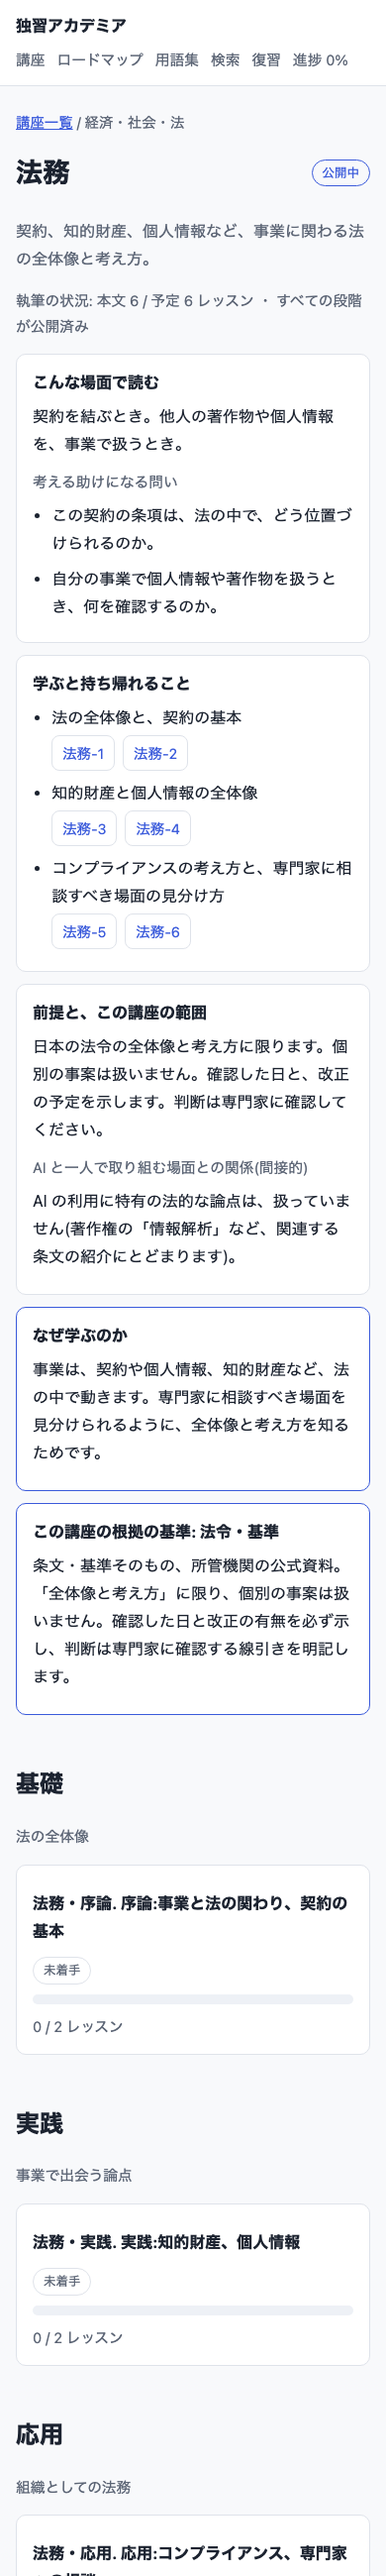
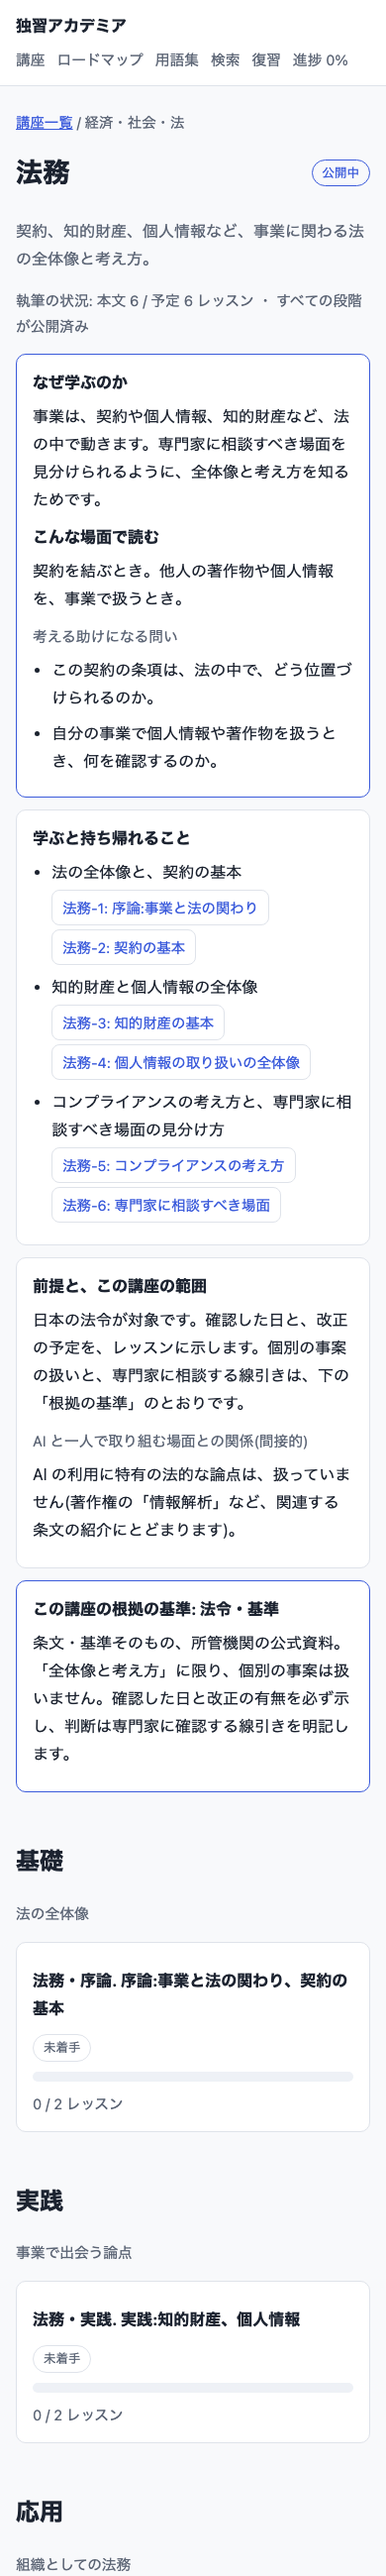
全講座の入口: Codex のレビューの指摘 1〜6 に対応する
PM の出典の確認範囲の限定、一覧の前置きと目次の重複の整理、リンクに題名を表示、労務の断定を弱める、
カードの時間のラベル、順序の検査を直す。出典・確認日は更新しない。

diff --git a/src/data/course-entry.ts b/src/data/course-entry.ts
@@ -23,6 +23,8 @@ export type CourseEntry = {
 }
 
 export const audience = {
+  /** 一覧の枠に出す、短い案内 */
+  short: '一人で起業を考える人、複数の役割を担う人、新任 PM へ。自分の困りごとに近い講座から選べます。',
   reader:
     'AI とともに事業やプロダクトをつくり、顧客・事業・開発について、自分で判断する必要がある人。一人で起業を考える人、小さな事業で複数の役割を担う人、新任のプロダクトマネージャー(PM)として分野をまたいで学び直す人を想定しています。',
   promise:
@@ -140,7 +142,7 @@ export const entries: Record<string, CourseEntry> = {
       { text: '依頼を問題に言い直し、顧客を調べ、仮定を試す方法', lessons: ['pm-2', 'pm-3'] },
       { text: '優先順位、指標、戦略、関係者との合意の考え方', lessons: ['pm-4', 'pm-5', 'pm-6', 'pm-7'] },
     ],
-    scope: '前提は、根拠の読み方・統計・経営戦略・UX(先に学ぶとよい。必須ではありません)。教科書がなく、実務家の資料が根拠です。優先順位づけなど、実務家の意見が分かれる分野は、分かれていると書いています。',
+    scope: '前提は、根拠の読み方・統計・経営戦略・UX(先に学ぶとよい。必須ではありません)。この講座では、教科書の本文を確認していません。実務家の記事やガイドを中心に、指標設計では学会論文も扱います。優先順位づけなど、実務家の意見が分かれる点は、違いと限界を示します。',
     solo: { kind: 'direct', text: '一人で PM の役割を担う人が、確かめる順序と、決める根拠を持つための講座です。AI の使い方そのものは扱いません。' },
   },
   strategy: {
@@ -236,7 +238,7 @@ export const entries: Record<string, CourseEntry> = {
       { text: '知的財産と個人情報の全体像', lessons: ['lg-3', 'lg-4'] },
       { text: 'コンプライアンスの考え方と、専門家に相談すべき場面の見分け方', lessons: ['lg-5', 'lg-6'] },
     ],
-    scope: '日本の法令の全体像と考え方に限ります。個別の事案は扱いません。確認した日と、改正の予定を示します。判断は専門家に確認してください。',
+    scope: '日本の法令が対象です。確認した日と、改正の予定を、レッスンに示します。個別の事案の扱いと、専門家に相談する線引きは、下の「根拠の基準」のとおりです。',
     solo: { kind: 'indirect', text: 'AI の利用に特有の法的な論点は、扱っていません(著作権の「情報解析」など、関連する条文の紹介にとどまります)。' },
   },
   labor: {
@@ -248,8 +250,8 @@ export const entries: Record<string, CourseEntry> = {
       { text: '採用から退職までの流れと、就業規則の役割', lessons: ['lb-3', 'lb-4'] },
       { text: 'ハラスメント防止の考え方と、専門家に相談すべき場面', lessons: ['lb-5', 'lb-6'] },
     ],
-    scope: '日本の法令の全体像と考え方に限ります。個別の事案は扱いません。就労者が「労働者」にあたるか(雇用か、業務委託か)は、専門家に確認する点として挙げています(lb-1)。',
-    solo: { kind: 'indirect', text: '一人で事業をする間は、直接は使いません。人を雇う可能性が出たときに関わります。' },
+    scope: '日本の法令が対象です。就労者が「労働者」にあたるか(雇用か、業務委託か)は、専門家に確認する点として挙げています(lb-1)。個別の事案の扱いと、線引きは、下の「根拠の基準」のとおりです。',
+    solo: { kind: 'indirect', text: '自分だけで作業する段階では、優先度は低めです。人を雇うことや、外部の人への仕事の依頼を考え、就労者が「労働者」にあたるかなどを専門家に相談する際に関わります。業務委託全般の手続は扱いません。' },
   },
   accounting: {
     decision: '売上と手元の資金を混同せず、お金の流れを読み、計画の現実味を判断する。',
@@ -260,7 +262,7 @@ export const entries: Record<string, CourseEntry> = {
       { text: 'キャッシュフローの見方と、損益分岐点', lessons: ['ac-3', 'ac-4'] },
       { text: '予算と実績の差の読み方、投資の評価', lessons: ['ac-5', 'ac-6'] },
     ],
-    scope: '日本の会社法・規則の全体像と考え方、および教科書の説明に限ります。個別の会計処理や税務は扱いません。確認した日を示します。専門家に確認してください。',
+    scope: '日本の会社法・規則と、教科書の説明が対象です。個別の会計処理や税務は扱いません。確認した日を、レッスンに示します。線引きは、下の「根拠の基準」のとおりです。',
     solo: { kind: 'direct', text: '一人で事業をするとき、売上と資金を混同しないための土台です。記帳や申告の手順は扱いません。' },
   },
   audit: {
@@ -272,7 +274,7 @@ export const entries: Record<string, CourseEntry> = {
       { text: 'リスクと統制の対応、証跡の残し方', lessons: ['au-3', 'au-4'] },
       { text: 'IT と統制、不正の防止の考え方', lessons: ['au-5', 'au-6'] },
     ],
-    scope: '前提は、会計・経理の講座(先に学ぶとよい)。金融商品取引法と会社法の制度を背景にしていて、小さな事業に、そのまま当てはまるとは限りません(このサービスの注意)。個別の判断は、専門家に確認してください。',
+    scope: '前提は、会計・経理の講座(先に学ぶとよい)。金融商品取引法と会社法の制度を背景にしていて、小さな事業に、そのまま当てはまるとは限りません(このサービスの注意)。個別の事案の扱いと、線引きは、下の「根拠の基準」のとおりです。',
     solo: { kind: 'indirect', text: '一人で事業をする間は、直接は使いにくい講座です。人やお金が増え、役割が分かれるときに関わります(このサービスの整理)。' },
   },
 }

diff --git a/src/pages/CatalogPage.tsx b/src/pages/CatalogPage.tsx
@@ -21,13 +21,10 @@ export default function CatalogPage() {
   return (
     <>
       <h1>講座一覧</h1>
-      <p className="lead">
-        顧客・事業・数字・開発について、自分で判断するための知識を、学問と一次情報に基づいて学べる講座集です。全講座を学ぶ前提ではなく、自分の困りごとに近い講座から選べます。
-        各講座は、基礎 → 実践 → 応用の段階で並んでいます。どの記述にも、根拠の種類と確認の程度が見えるようにしています。講座の関係と、この構成の理由は、<Link to="/map">全体の地図</Link>で見られます。
-      </p>
       <AudienceNote />
-      <p className="muted">
-        1レッスンの学習時間の目安は、中央値で{formatMinutes(len.median)}(最短{formatMinutes(len.min)}、最長{formatMinutes(len.max)})です。本文の文字数などから見積もった目安で、実測ではありません。
+      <p className="lead">
+        各講座は、基礎 → 実践 → 応用の順に並び、どの記述にも、根拠の種類と確認の程度が見えます。講座の関係と、この構成の理由は、<Link to="/map">全体の地図</Link>で見られます。
+        1レッスンの学習時間の目安は、中央値で{formatMinutes(len.median)}(最短{formatMinutes(len.min)}、最長{formatMinutes(len.max)})です。本文の文字数などからの見積もりで、実測ではありません。
       </p>
       {notAllOpen && (
         <p className="notice" role="note">
@@ -38,9 +35,10 @@ export default function CatalogPage() {
         <section className="card" aria-label="続きから学ぶ">
           <div className="row">
             <Link className="button" to={`/lesson/${nextLesson.id}`} state={{ resume: true }}>
-              {done === 0 && !position ? '学習を始める' : '続きから学ぶ'}:{nextLesson.title}
+              {done === 0 && !position ? '学習を始める(例)' : '続きから学ぶ'}:{nextLesson.title}
             </Link>
             <span className="muted">
+              {done === 0 && !position && '全講座を学ぶ前提ではありません。下の講座から選べます。 ・ '}
               {formatMinutes(lessonMinutes(nextLesson.id))}
               {position && ` ・ 前回は「${position.section}」まで読みました`}
             </span>
@@ -99,7 +97,7 @@ export default function CatalogPage() {
                   {available ? (
                     <>
                       <ProgressBar value={pct} label={`${c.title}の進捗`} />
-                      <span className="muted">{done} / {total} レッスン ・ {formatMinutes(courseMinutes(c), true)}{plannedCount(c) > 0 && ` ・ 準備中(目次の案) ${plannedCount(c)} 件`}</span>
+                      <span className="muted">{done} / {total} レッスン ・ 講座全体の目安: {formatMinutes(courseMinutes(c), true)}{plannedCount(c) > 0 && ` ・ 準備中(目次の案) ${plannedCount(c)} 件`}</span>
                     </>
                   ) : (
                     <span className="muted">本文 {writtenCount(c)} ・ 目次の案 {plannedCount(c)} 件</span>

diff --git a/src/ui/CourseEntryCards.tsx b/src/ui/CourseEntryCards.tsx
@@ -2,19 +2,23 @@ import { Link } from 'react-router-dom'
 import { entries } from '../data/course-entry'
 import { findLesson } from '../data/curriculum'
 
-/** 講座の目次の冒頭: こんな場面で読む / 学ぶと持ち帰れること / 前提と範囲。目次に進む前に、役立つ場面を把握できるようにする。 */
-export default function CourseEntryCards({ courseId }: { courseId: string }) {
+/** 講座の目次の冒頭: なぜ学ぶのか・こんな場面で読む / 学ぶと持ち帰れること / 前提と範囲。目次に進む前に、役立つ場面を把握できるようにする。 */
+export default function CourseEntryCards({ courseId, why }: { courseId: string; why: string }) {
   const e = entries[courseId]
   if (!e) return null
   return (
     <>
-      <section className="card entry-card" aria-label="こんな場面で読む">
-        <strong>こんな場面で読む</strong>
-        <p>{e.when}</p>
-        <span className="muted">考える助けになる問い</span>
-        <ul className="entry-list">
-          {e.questions.map((q) => <li key={q}>{q}</li>)}
-        </ul>
+      <section className="card why-card entry-card" aria-label="なぜ学ぶのか">
+        <strong>なぜ学ぶのか</strong>
+        <p>{why}</p>
+        <div role="group" aria-label="こんな場面で読む">
+          <strong>こんな場面で読む</strong>
+          <p>{e.when}</p>
+          <span className="muted">考える助けになる問い</span>
+          <ul className="entry-list">
+            {e.questions.map((q) => <li key={q}>{q}</li>)}
+          </ul>
+        </div>
       </section>
 
       <section className="card entry-card" aria-label="学ぶと持ち帰れること">
@@ -23,10 +27,10 @@ export default function CourseEntryCards({ courseId }: { courseId: string }) {
           {e.gains.map((g) => (
             <li key={g.text}>
               {g.text}
-              <span className="plan-chips">
+              <span className="entry-lessons">
                 {g.lessons.map((id) => {
                   const l = findLesson(id)
-                  return l ? <Link key={id} className="chip" to={`/lesson/${id}`} title={l.title}>{l.label ?? id}</Link> : null
+                  return l ? <Link key={id} className="chip entry-lesson" to={`/lesson/${id}`}>{l.label ?? id}: {l.title}</Link> : null
                 })}
               </span>
             </li>

diff --git a/e2e/audience.spec.ts b/e2e/audience.spec.ts
@@ -62,8 +62,10 @@ test('講座一覧: 読者と約束、各カードの「どんな判断に役立
   await page.goto(go('/catalog'))
   const note = page.getByLabel('想定する読者と約束')
   await expect(note).toContainText(audience.promise)
+  await expect(note).toContainText(audience.short)
   await note.locator('summary').click()
   await expect(note).toContainText('約束しません')
+  await expect(note).toContainText(audience.reader)
   await expect(page.locator('.course-card')).toHaveCount(courses.length)
   for (const c of courses) await expect(page.locator('.course-card', { hasText: c.title }).first()).toContainText(entries[c.id].decision)
 })
@@ -75,14 +77,16 @@ test('講座の目次: 場面・持ち帰れること・前提が、目次より
   await expect(page.getByLabel('こんな場面で読む')).toBeVisible()
   await expect(page.getByLabel('学ぶと持ち帰れること')).toBeVisible()
   await expect(page.getByLabel('前提と範囲')).toContainText('AI と一人で取り組む場面との関係')
-  // 入口のカードは、基礎・実践・応用の見出しより前にある
+  // 入口のカードは、3 枚とも、基礎・実践・応用の見出しより前にある
   const before = await page.evaluate(() => {
-    const card = document.querySelector('.entry-card')!
     const tier = document.querySelector('.tier')!
-    return !!(card.compareDocumentPosition(tier) & Node.DOCUMENT_POSITION_FOLLOWING)
+    return [...document.querySelectorAll('.entry-card')].map((card) => !!(card.compareDocumentPosition(tier) & Node.DOCUMENT_POSITION_FOLLOWING))
   })
-  expect(before).toBe(true)
-  await page.getByLabel('学ぶと持ち帰れること').getByRole('link', { name: 'PM-1' }).click()
+  expect(before).toEqual([true, true, true])
+  // リンクには、番号だけでなく、レッスンの題名が見える
+  const link = page.getByLabel('学ぶと持ち帰れること').getByRole('link', { name: /PM-1/ })
+  await expect(link).toContainText('PM の仕事の全体像')
+  await link.click()
   await expect(page.locator('article h1')).toContainText('PM の仕事の全体像')
 })
 

diff --git a/src/pages/CoursePage.tsx b/src/pages/CoursePage.tsx
@@ -33,7 +33,7 @@ export default function CoursePage() {
         {status === 'open' && ' ・ すべての段階が公開済み'}
       </p>
 
-      <CourseEntryCards courseId={course.id} />
+      <CourseEntryCards courseId={course.id} why={course.why} />
 
       {['llm', 'agents', 'aidev'].includes(course.id) && (
         <Link to="/llm" className="card stage-card">
@@ -48,11 +48,6 @@ export default function CoursePage() {
           <span className="muted">講座のつながりと、この構成の理由、根拠の表示の読み方を、1枚で見ます。</span>
         </Link>
       )}
-
-      <section className="card why-card" aria-label="なぜ学ぶのか">
-        <strong>なぜ学ぶのか</strong>
-        <p>{course.why}</p>
-      </section>
 
       <section className="card why-card">
         <strong>この講座の根拠の基準: {ev.label}</strong>

diff --git a/src/styles.css b/src/styles.css
@@ -416,7 +416,9 @@ a.concept-chip:hover { border-color: var(--accent); }
 .audience-note summary { cursor: pointer; color: var(--muted); }
 .entry-card p { margin: 6px 0 10px; }
 .entry-list { margin: 6px 0 8px; padding-left: 1.2em; display: grid; gap: 8px; }
-.entry-list .plan-chips { margin-top: 4px; }
+.entry-lessons { display: flex; flex-direction: column; align-items: flex-start; gap: 4px; margin-top: 4px; }
+.entry-lesson { max-width: 100%; }
+.entry-card [role=group] { margin-top: 10px; }
 .course-list { display: grid; grid-template-columns: repeat(auto-fill, minmax(240px, 1fr)); gap: 12px; margin-bottom: 8px; }
 .course-card { display: flex; flex-direction: column; gap: 8px; text-decoration: none; color: inherit; }
 .evidence-tag { font-size: 0.82rem; color: var(--muted); }

diff --git a/src/ui/AudienceNote.tsx b/src/ui/AudienceNote.tsx
@@ -5,9 +5,10 @@ export default function AudienceNote() {
   return (
     <section className="card audience-note" aria-label="想定する読者と約束">
       <strong>{audience.promise}</strong>
-      <p>{audience.reader}</p>
+      <p>{audience.short}</p>
       <details>
-        <summary>この設定について、約束しないこと</summary>
+        <summary>対象の読者と、約束しないこと</summary>
+        <p>{audience.reader}</p>
         <p>{audience.background}</p>
         <p>{audience.notPromised}</p>
       </details>

diff --git a/src/pages/MapPage.tsx b/src/pages/MapPage.tsx
@@ -17,7 +17,6 @@ export default function MapPage() {
       <p className="lead">
         {courses.length} の講座が、どうつながり、なぜこの並びになっているかを、1枚で見ます。
         {allOpen ? '全講座に本文があります。' : `いま本文があるのは ${open} 講座で、残りは目次の案です。`}
-        全講座を学ぶ前提ではなく、自分の困りごとに近い講座から選べます。
       </p>
       <AudienceNote />
       <p className="notice" role="note">

diff --git a/docs/pilot/course-audience.md b/docs/pilot/course-audience.md
@@ -26,7 +26,7 @@
 | **AI を使った開発**<br>AI にどこまで任せ、どこを人が確かめるかを決める。 | AI にコードを書かせて、一人で、またはチームで、プロダクトをつくるとき。 | AI が書いたコードを、どう読み、何を確かめるのか。<br>課題を AI に渡すとき、仕様や権限をどう渡すのか。 | AI を使った開発の水準の考え方と、任せる水準の選び方(14-1・14-3)<br>生成されたコードの確かめ方と、理解を保つ学び方(15-2・15-3)<br>仕様・権限・CI などで、AI に任せる範囲を設計する観点(16-2・16-3・17-2・18-1) | 前提は、AI エージェント開発の講座(先に学ぶとよい)。AI を使った開発について、研究が示すことと、その限界は、14-2 で扱います。 | 直接: AI とつくることを扱う、中心の講座です。任せる範囲と、確かめる範囲を、自分で決める観点を扱います。 |
 | **ソフトウェアエンジニアリング**<br>開発者の見積もりや、AI が書いたコードを、変更・テスト・保守の観点で受け止める。 | 開発者と話すとき。AI が書いたコードを、自分で確かめる必要があるとき。 | 「動く」と「保守できる」は、何が違うのか。<br>テストや技術的負債の話に、どんな問いを返せるのか。 | ソフトウェアは書いたあとも続くこと、バージョン管理とレビューの役割(SWE-1・SWE-2)<br>テストの使い分けと、技術的負債の考え方(SWE-3・SWE-4)<br>システムの分割と、開発の指標の読み方(SWE-5・SWE-6) | 前提はありません。プログラミングの入門ではなく、開発の考え方と、会話に加わるための問いを扱います。 | 間接: AI が書いたコードのレビューは、AI を使った開発の講座(15-2、17-2)で扱い、sw-2 から案内しています。この講座は、その土台の考え方です。 |
 | **セキュリティ**<br>何を、誰から守るかを決め、設計やリリース前の確認に、問いを持ち込む。 | ログインや個人情報を扱う機能を、作るとき、出すとき。 | この機能で、何を、誰から守るのか。<br>リリースの前に、どんな問いで確かめるのか。 | 守るものと攻撃者の考え方、認証と認可の違い(セキュリティ-1・セキュリティ-2)<br>よくある脆弱性と、秘密情報の扱い(セキュリティ-3・セキュリティ-4)<br>脅威モデリングと、事故対応の位置づけ(セキュリティ-5・セキュリティ-6) | 前提は、ソフトウェアエンジニアリングの講座(先に学ぶとよい)。個別のシステムの安全性の判断は扱いません。専門家に確認してください。 | 直接: AI とつくるときも、守るものと脅威の考え方は同じです。AI を組み込む機能に特有の安全の話は、AI エージェント開発の 12-2 で扱います。 |
-| **プロダクトマネジメント**<br>何を作るか、何から確かめるかを、顧客・データ・事業をつなげて判断する。 | 新任の PM として着任したとき。一人で、製品の方向を決めるとき。 | 作れるものが増えたとき(AI の助けで増えることもある)、何を先に作り、何を確かめるのか。<br>大口顧客の要望を、そのまま作ってよいのか。まず何を確かめるのか。 | PM の責任と、4 つのリスク(価値・使いやすさ・実現可能性・事業)(PM-1)<br>依頼を問題に言い直し、顧客を調べ、仮定を試す方法(PM-2・PM-3)<br>優先順位、指標、戦略、関係者との合意の考え方(PM-4・PM-5・PM-6・PM-7) | 前提は、根拠の読み方・統計・経営戦略・UX(先に学ぶとよい。必須ではありません)。教科書がなく、実務家の資料が根拠です。優先順位づけなど、実務家の意見が分かれる分野は、分かれていると書いています。 | 直接: 一人で PM の役割を担う人が、確かめる順序と、決める根拠を持つための講座です。AI の使い方そのものは扱いません。 |
+| **プロダクトマネジメント**<br>何を作るか、何から確かめるかを、顧客・データ・事業をつなげて判断する。 | 新任の PM として着任したとき。一人で、製品の方向を決めるとき。 | 作れるものが増えたとき(AI の助けで増えることもある)、何を先に作り、何を確かめるのか。<br>大口顧客の要望を、そのまま作ってよいのか。まず何を確かめるのか。 | PM の責任と、4 つのリスク(価値・使いやすさ・実現可能性・事業)(PM-1)<br>依頼を問題に言い直し、顧客を調べ、仮定を試す方法(PM-2・PM-3)<br>優先順位、指標、戦略、関係者との合意の考え方(PM-4・PM-5・PM-6・PM-7) | 前提は、根拠の読み方・統計・経営戦略・UX(先に学ぶとよい。必須ではありません)。この講座では、教科書の本文を確認していません。実務家の記事やガイドを中心に、指標設計では学会論文も扱います。優先順位づけなど、実務家の意見が分かれる点は、違いと限界を示します。 | 直接: 一人で PM の役割を担う人が、確かめる順序と、決める根拠を持つための講座です。AI の使い方そのものは扱いません。 |
 | **経営・戦略**<br>限られた時間と資金を、どの事業・顧客に集中させるかを、数字と競争から判断する。 | 新しい事業や機能に、時間と資金を使う前。 | この事業は、いくら売れば利益が出るのか。<br>競争の中で、どこに位置取りするのか。 | 収益・費用・利益の構造と、損益分岐点の計算(経営-1・経営-2)<br>競争環境と、位置取りの枠組み(経営-3・経営-4)<br>投資案の比べ方と、新規事業を仮説の検証として進める考え方(経営-5・経営-6) | 前提はありません。枠組みは、成果の証拠ではなく、考える道具として紹介します。分析の前提と限界は、各レッスンに書いています。 | 直接: 一人で事業を始める人が、数字と競争から、何に集中するかを決める土台です。 |
 | **マーケティング**<br>誰に、何を、どう届けるかを決め、施策の数字を検算して読む。 | プロダクトを誰に届けるかを決めるとき。広告や施策の効果を見るとき。 | 全員ではなく、誰を狙うのか。<br>CAC や CLV などの数字は、検算しても成り立つのか。 | マーケティングの定義と、市場の分け方・狙い方(マーケティング-1・マーケティング-2)<br>ポジショニングの考え方と、狙い方の倫理(マーケティング-3)<br>指標の計算と検算、ブランドと成長の見方(マーケティング-4・マーケティング-5・マーケティング-6) | 前提は、経営・戦略の講座(先に学ぶとよい)。教科書が根拠を示していない主張や基準は、そう書いています。広告の運用の手順は扱いません。 | 間接: AI で作ったものを、誰に届けるかを決める場面で使えます(このサービスの整理)。AI を使った施策の運用は扱いません。 |
 | **UX・ユーザーリサーチ**<br>思い込みでなく、実際の利用者の困りごとに合わせて、作るものを判断する。 | AI と立てた顧客像や仮説が、実際の利用者に合っているか、確かめたいとき。 | 利用者は、何をしようとして、何に困っているのか。<br>調査の結果を、どう次の判断につなげるのか。 | 使いやすさと有用性の区別、利用者の課題の捉え方(UX-1・UX-2)<br>インタビュー・観察と、ユーザビリティテストの進め方(UX-3・UX-4)<br>調査結果を意思決定につなげ、定性と定量を組み合わせる方法(UX-5・UX-6) | 前提は、心理学の講座(先に学ぶとよい。必須ではありません)。テストの人数など、実務家の間で議論がある点は、議論があると書いています。 | 直接: AI と立てた仮のペルソナや仮説を、実際の調査で確かめるための土台です。AI を使った調査の手順は、扱いません。 |
@@ -34,10 +34,10 @@
 | **心理学**<br>利用者や同僚の行動の背景を、思い込みでなく、研究の確かさとともに考える。 | 利用者が、なぜそう行動するのかを考えるとき。 | その心理学の主張は、実験で確かめられ、再現されているのか。<br>注意や記憶には、どんな限界と誤りがあるのか。 | 心理学の研究の方法と、相関と因果、再現性(心理学-1・心理学-2)<br>注意・記憶・動機づけのしくみ(心理学-3・心理学-4)<br>学習と習慣、集団の判断の有名な研究の、確かさ(心理学-5・心理学-6) | 前提は、根拠の読み方の講座(先に学ぶとよい)。再現や批判のある研究は、そう書いています。診断や治療は扱いません。 | 間接: 顧客を理解する土台で、一人でも使えます。AI との対話そのものは扱いません。 |
 | **行動心理学・行動経済学**<br>人の選択のくせと、行動を変える設計の効果を、数字と追試の状況で見極める。 | ナッジや選択肢の見せ方で、利用者の行動を変えようとするとき。 | ナッジやデフォルトは、どれだけ効くと言えるのか。<br>行動を変える設計は、どこから、利用者を欺く設計になるのか。 | プロスペクト理論と、バイアス研究の再現の状況(行動心理学-1・行動心理学-2)<br>デフォルト・選択過多・ナッジの効果と、論争(行動心理学-3・行動心理学-4)<br>ダークパターンと倫理、オンライン実験の落とし穴(行動心理学-5・行動心理学-6) | 前提は、心理学と統計の講座(先に学ぶとよい)。結果が割れている研究は、割れていると書いています。平均の効果を、自分の状況の予測に使わない考え方を扱います。 | 間接: プロダクトの行動設計を点検する観点です(bh-5)。AI を使った行動設計は扱いません。 |
 | **マネジメント**<br>チームの目標・評価・意思決定・組織の形を、研究が言えることと助言を分けて考える。 | 人と協力して進めるとき。仕事を任せるとき。組織を作るとき。 | 目標を立てる前に、何を確かめるのか。<br>集団で決めることには、どんな利点と落とし穴があるのか。 | 管理職の仕事の実態と、目標の立て方(マネジメント-1・マネジメント-2)<br>評価とフィードバック、集団の意思決定(マネジメント-3・マネジメント-4)<br>組織の形の選び方と、変革の進め方(マネジメント-5・マネジメント-6) | 前提はありません。教科書が根拠として示していることと、示していないことを分けています。 | 間接: 協力者や委託先が加わるときに関わります(このサービスの整理)。AI にタスクを任せるときのマネジメントは扱いません。 |
-| **法務**<br>契約・知的財産・個人情報について、何を調べ、どこで専門家に相談するかを判断する。 | 契約を結ぶとき。他人の著作物や個人情報を、事業で扱うとき。 | この契約の条項は、法の中で、どう位置づけられるのか。<br>自分の事業で個人情報や著作物を扱うとき、何を確認するのか。 | 法の全体像と、契約の基本(法務-1・法務-2)<br>知的財産と個人情報の全体像(法務-3・法務-4)<br>コンプライアンスの考え方と、専門家に相談すべき場面の見分け方(法務-5・法務-6) | 日本の法令の全体像と考え方に限ります。個別の事案は扱いません。確認した日と、改正の予定を示します。判断は専門家に確認してください。 | 間接: AI の利用に特有の法的な論点は、扱っていません(著作権の「情報解析」など、関連する条文の紹介にとどまります)。 |
-| **労務**<br>人を雇う局面で、何を確認し、どこで専門家に相談するかを判断する。 | 人を雇うとき。就業規則を作る必要が出たとき。 | 採用から退職まで、どんな制度が関わるのか。<br>どの場面で、社会保険労務士や弁護士に相談するのか。 | 雇用の基本的な仕組みと、労働時間の考え方(労務-1・労務-2)<br>採用から退職までの流れと、就業規則の役割(労務-3・労務-4)<br>ハラスメント防止の考え方と、専門家に相談すべき場面(労務-5・労務-6) | 日本の法令の全体像と考え方に限ります。個別の事案は扱いません。就労者が「労働者」にあたるか(雇用か、業務委託か)は、専門家に確認する点として挙げています(lb-1)。 | 間接: 一人で事業をする間は、直接は使いません。人を雇う可能性が出たときに関わります。 |
-| **会計・経理**<br>売上と手元の資金を混同せず、お金の流れを読み、計画の現実味を判断する。 | 決算書や資金繰りを見るとき。予算や投資を判断するとき。 | 利益が出ているのに、手元の現金が足りなくなるのは、なぜか。<br>この投資案は、回収と時間価値を考えても、成り立つのか。 | 貸借対照表と損益計算書、発生主義の考え方(会計-1・会計-2)<br>キャッシュフローの見方と、損益分岐点(会計-3・会計-4)<br>予算と実績の差の読み方、投資の評価(会計-5・会計-6) | 日本の会社法・規則の全体像と考え方、および教科書の説明に限ります。個別の会計処理や税務は扱いません。確認した日を示します。専門家に確認してください。 | 直接: 一人で事業をするとき、売上と資金を混同しないための土台です。記帳や申告の手順は扱いません。 |
-| **監査・内部統制**<br>不正や誤りを防ぐ仕組みが、事業のどこに必要かを見通す。 | お金や権限を、複数の人で扱うようになるとき。監査や内部統制の話に加わるとき。 | 誤りや不正を防ぐ統制は、どこにあればよいのか。<br>統制には、共謀や経営者による無効化のような限界がある。それをどう考えるのか。 | 監査と内部統制の役割(監査-1・監査-2)<br>リスクと統制の対応、証跡の残し方(監査-3・監査-4)<br>IT と統制、不正の防止の考え方(監査-5・監査-6) | 前提は、会計・経理の講座(先に学ぶとよい)。金融商品取引法と会社法の制度を背景にしていて、小さな事業に、そのまま当てはまるとは限りません(このサービスの注意)。個別の判断は、専門家に確認してください。 | 間接: 一人で事業をする間は、直接は使いにくい講座です。人やお金が増え、役割が分かれるときに関わります(このサービスの整理)。 |
+| **法務**<br>契約・知的財産・個人情報について、何を調べ、どこで専門家に相談するかを判断する。 | 契約を結ぶとき。他人の著作物や個人情報を、事業で扱うとき。 | この契約の条項は、法の中で、どう位置づけられるのか。<br>自分の事業で個人情報や著作物を扱うとき、何を確認するのか。 | 法の全体像と、契約の基本(法務-1・法務-2)<br>知的財産と個人情報の全体像(法務-3・法務-4)<br>コンプライアンスの考え方と、専門家に相談すべき場面の見分け方(法務-5・法務-6) | 日本の法令が対象です。確認した日と、改正の予定を、レッスンに示します。個別の事案の扱いと、専門家に相談する線引きは、下の「根拠の基準」のとおりです。 | 間接: AI の利用に特有の法的な論点は、扱っていません(著作権の「情報解析」など、関連する条文の紹介にとどまります)。 |
+| **労務**<br>人を雇う局面で、何を確認し、どこで専門家に相談するかを判断する。 | 人を雇うとき。就業規則を作る必要が出たとき。 | 採用から退職まで、どんな制度が関わるのか。<br>どの場面で、社会保険労務士や弁護士に相談するのか。 | 雇用の基本的な仕組みと、労働時間の考え方(労務-1・労務-2)<br>採用から退職までの流れと、就業規則の役割(労務-3・労務-4)<br>ハラスメント防止の考え方と、専門家に相談すべき場面(労務-5・労務-6) | 日本の法令が対象です。就労者が「労働者」にあたるか(雇用か、業務委託か)は、専門家に確認する点として挙げています(lb-1)。個別の事案の扱いと、線引きは、下の「根拠の基準」のとおりです。 | 間接: 自分だけで作業する段階では、優先度は低めです。人を雇うことや、外部の人への仕事の依頼を考え、就労者が「労働者」にあたるかなどを専門家に相談する際に関わります。業務委託全般の手続は扱いません。 |
+| **会計・経理**<br>売上と手元の資金を混同せず、お金の流れを読み、計画の現実味を判断する。 | 決算書や資金繰りを見るとき。予算や投資を判断するとき。 | 利益が出ているのに、手元の現金が足りなくなるのは、なぜか。<br>この投資案は、回収と時間価値を考えても、成り立つのか。 | 貸借対照表と損益計算書、発生主義の考え方(会計-1・会計-2)<br>キャッシュフローの見方と、損益分岐点(会計-3・会計-4)<br>予算と実績の差の読み方、投資の評価(会計-5・会計-6) | 日本の会社法・規則と、教科書の説明が対象です。個別の会計処理や税務は扱いません。確認した日を、レッスンに示します。線引きは、下の「根拠の基準」のとおりです。 | 直接: 一人で事業をするとき、売上と資金を混同しないための土台です。記帳や申告の手順は扱いません。 |
+| **監査・内部統制**<br>不正や誤りを防ぐ仕組みが、事業のどこに必要かを見通す。 | お金や権限を、複数の人で扱うようになるとき。監査や内部統制の話に加わるとき。 | 誤りや不正を防ぐ統制は、どこにあればよいのか。<br>統制には、共謀や経営者による無効化のような限界がある。それをどう考えるのか。 | 監査と内部統制の役割(監査-1・監査-2)<br>リスクと統制の対応、証跡の残し方(監査-3・監査-4)<br>IT と統制、不正の防止の考え方(監査-5・監査-6) | 前提は、会計・経理の講座(先に学ぶとよい)。金融商品取引法と会社法の制度を背景にしていて、小さな事業に、そのまま当てはまるとは限りません(このサービスの注意)。個別の事案の扱いと、線引きは、下の「根拠の基準」のとおりです。 | 間接: 一人で事業をする間は、直接は使いにくい講座です。人やお金が増え、役割が分かれるときに関わります(このサービスの整理)。 |
 
 
 ## 入口の書き方の確認(確認した範囲と、していない範囲)
@@ -48,7 +48,7 @@
 ## 「隙間時間に 1 レッスン」の扱い
 - 講座一覧と地図の「隙間時間に 1 レッスン」の説明を、実際の長さに合わせた。1 レッスンの学習時間の目安は、中央値で約 27 分(最短約 6 分、最長約 60 分)。`src/time.ts` の式による見積もりで、実測ではない(一覧と地図に、そう書いた)。講座のカードにも、講座全体の目安の時間を足した。
 - PM-1 の約 8 分の入口のような、短く読める構成は、PM-1 だけにある。同じ構成が全レッスンにあるようには、書いていない(地図に「一部です」と書いた)。
-- 講座一覧の「学習を始める」ボタンは、既存の仕組みで、最初の未完了のレッスン(LLM の全体像)を指す。全講座の学習を始める前提ではない、という今回の方針と、少し食い違う。ボタンの出し方の見直しは、別 Issue の候補。
+- 講座一覧の「学習を始める」ボタンは、既存の仕組みで、最初の未完了のレッスン(LLM の全体像)を指す。全講座の学習を始める前提ではない、という今回の方針に合わせて、初回は「学習を始める(例)」とし、「全講座を学ぶ前提ではありません。下の講座から選べます。」を添えた(Codex のレビューを受けて)。再開の機能は、そのまま。
 
 ## 公開状況の案内を、現行のデータと照合した
 - 講座一覧の「構成案です。『公開中』『一部公開』の講座以外は目次の案だけ」という案内は、過去の計画の名残だった。現行のデータでは、全 20 講座に、全段階の本文がある。本文のない講座があるときだけ表示するように、条件つきにした。
@@ -65,9 +65,21 @@
 | 講座の目次(PM) | 「なぜ学ぶのか」から始まる | 「こんな場面で読む」「学ぶと持ち帰れること(レッスンへのリンクつき)」「前提と、この講座の範囲」が、基礎・実践・応用の前に入る |
 
 ## 残した項目(別 Issue の候補)
-- 講座の `why`(なぜ学ぶのか)と、新しい入口の「こんな場面で読む」の重なりの整理(今回は、どちらも残した)。
-- 一覧の「学習を始める」ボタンの出し方(全講座の学習を始める前提に見えないようにする)。
 - 目的別のナビゲーション(「PM に転職した」「数字で判断したい」など)と、学習ルート機能。
 - 各レッスンの冒頭の、短い案内(PM-1 の入口の型を、他の教材へ広げるかの判断を含む)。
 - 利用者による検証: 一人起業を考える人と、新任 PM の双方に、一覧と入口を見てもらい、自分の困りごとに近い講座を選べたか、読み始める理由が伝わったかを確かめる(募集や連絡は、この作業の対象外)。
+- 初回に、講座の選択だけを促す出し方(「例」ではなく、講座を選ぶ導線)。
 - 各講座の `summary`(扱う分野の説明)は、一覧のカードからは外れ、講座の目次の冒頭にだけ残った。一覧に戻すか、検索に使うかの判断。
+
+
+## Codex のレビューへの対応(2026-10-14、対象 96b952a)
+| # | 指摘 | 重さ | 対応 |
+|---|---|---|---|
+| 1 | PM の出典について、確認範囲の限定が落ちている(「教科書がなく、実務家の資料が根拠」は、教科書が存在しない、とも読める。PM-5 は学会論文も根拠にしている) | 必須 | **修正**。「この講座では、教科書の本文を確認していません。実務家の記事やガイドを中心に、指標設計では学会論文も扱います。優先順位づけなど、実務家の意見が分かれる点は、違いと限界を示します」にした。学会論文だから助言の効果が独立に検証済み、とは書いていない(PM-5 本文も、その限界を区別している) |
+| 2 | 一覧の前置きと、詳細の重複を減らす | 望ましい | **対応**。一覧は、約束の枠(短い案内)を先に置き、読者の詳しい説明は折りたたみに移した。前置きは、段階・根拠の表示・地図・時間の目安の補足に絞った。地図の同じ文も削った。講座の目次では、「なぜ学ぶのか」と「こんな場面で読む」を 1 枚のカードにまとめ、カードを 1 枚減らした(「なぜ学ぶのか」は、そのまま残した)。法務・労務・会計・監査の「前提と範囲」は、下の「根拠の基準」の線引きと重なる文を省き、線引きは「根拠の基準」を参照する形にした(線引きは、読める位置に残っている)。初回の「学習を始める」は、「(例)」を付け、全講座を学ぶ前提ではないことを添えた |
+| 3 | 持ち帰れることのリンクが、番号だけで、スマホでは題名が分からない | 望ましい | **修正**。リンクに、番号と題名を表示し(「PM-4: 優先順位のつけ方」)、縦に並べた。テストも、題名が見えることを検査する |
+| 4 | 労務の「一人で事業をする間は、直接は使いません」は、外部の人に仕事を依頼する読者に、関係ないという案内になりえる | 望ましい | **修正**。レビューの案をもとに、「自分だけで作業する段階では、優先度は低めです。人を雇うことや、外部の人への仕事の依頼を考え、就労者が『労働者』にあたるかなどを専門家に相談する際に関わります。業務委託全般の手続は扱いません」にした。新しい法的な結論は足していない |
+| 5 | カードの時間に、講座全体の目安というラベルを足す | 任意 | **対応**。「講座全体の目安: 約 N 時間 M 分」にした。「実測ではない」は、一覧の上部の説明で足りるので、各カードでは繰り返していない |
+| 6 | カードの順序の検査が、最初の 1 枚だけ | 任意 | **修正**。3 枚すべてが、基礎・実践・応用の見出しより前にあることを検査する |
+
+実画面の位置(保存データなしの状態、Chromium、PC 1000px / スマホ 390px): 最初の講座カードは、一覧の上から約 703px / 約 1,147px。法務の目次(基礎の見出し)は、約 1,434px / 約 2,016px。レビューが測った値(約 819px / 約 1,194px)は、再開案内が出ている状態で、条件が違うので、単純には比べられない。
